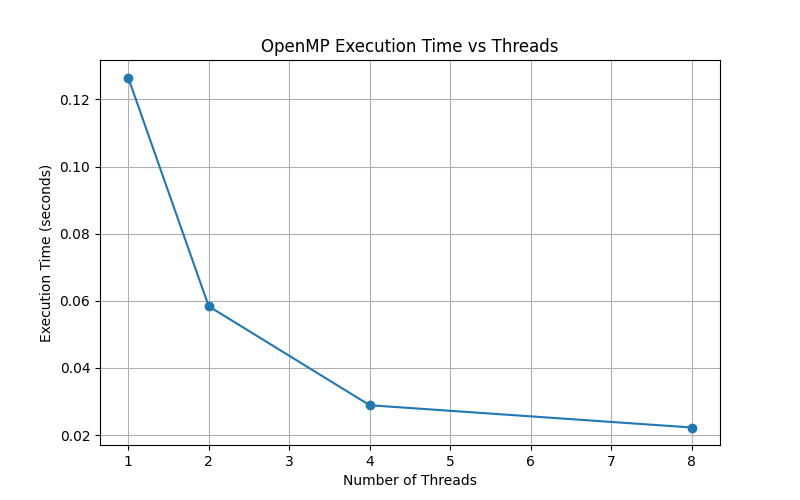
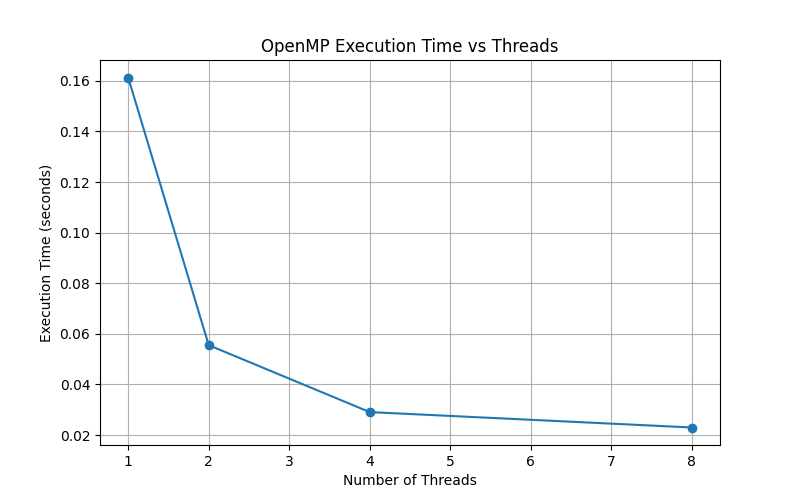
chore: added the new folder structure to save pgms and pngs

diff --git a/scripts/preprocessing/input_image_processing.py b/scripts/preprocessing/input_image_processing.py
@@ -1,4 +1,4 @@
-# Run: python3 input_image_processing.py
+# Run: python3 scripts/preprocessing/input_image_processing.py
 
 import numpy as np
 import cv2
@@ -8,7 +8,17 @@ from pathlib import Path
 script_dir = Path(__file__).resolve().parent
 project_root = script_dir.parent.parent
 input_img = project_root / "data" / "input_image.png"
-output_img = project_root / "output" / "input.pgm"
+
+pgm_dir = project_root / "results" / "pgm"
+png_dir = project_root / "results" / "png"
+
+# Create both folders before writing anything
+pgm_dir.mkdir(parents=True, exist_ok=True)
+png_dir.mkdir(parents=True, exist_ok=True)
+
+output_pgm = pgm_dir / "input.pgm"
+png_original = png_dir / "00_original_input.png"
+png_preprocessed = png_dir / "01_preprocessed_input.png"
 
 # read input image as grayscale
 img = cv2.imread(str(input_img), cv2.IMREAD_GRAYSCALE)
@@ -19,10 +29,20 @@ if img is None:
 resized = cv2.resize(img, (8192, 8192), interpolation=cv2.INTER_LINEAR)
 
 # save as PGM
-ok = cv2.imwrite(str(output_img), resized)
-if not ok:
-    raise RuntimeError(f"Failed to write: {output_img}")
+if not cv2.imwrite(str(output_pgm), resized):
+    raise RuntimeError(f"Failed to write: {output_pgm}")
+
+# Also save as PNG for visualization
+if not cv2.imwrite(str(png_original), img):
+    raise RuntimeError(f"Failed to write: {png_original}")
+
+if not cv2.imwrite(str(png_preprocessed), resized):
+    raise RuntimeError(f"Failed to write: {png_preprocessed}")
 
 print("Read:", input_img)
-print("Saved:", output_img)
+print("Saved PGM:", output_pgm)
+print("Saved PNG (original):", png_original)
+print("Saved PNG (preprocessed):", png_preprocessed)
 print("Output size:", resized.shape)
+print("PGM dir:", pgm_dir)
+print("PNG dir:", png_dir)

diff --git a/src/serial/hist_eq_serial.c b/src/serial/hist_eq_serial.c
@@ -1,11 +1,14 @@
 /*
   Serial Histogram Equalization (Grayscale, 8-bit) for PGM (P5) images.
 
+  If no build folder; create it using : 
+    mkdir -p build
+    
   Build (Linux/macOS):
     gcc -O2 -std=c11 src/serial/hist_eq_serial.c -o build/hist_eq_serial
 
-  Run:
-    ./build/hist_eq_serial output/input.pgm output/output_serial.pgm
+  Run (from project root):
+    ./build/hist_eq_serial results/pgm/input.pgm results/pgm/output_serial.pgm
 */
 #include <stdio.h>
 #include <stdlib.h>
@@ -175,7 +178,7 @@ static void hist_equalize_u8(uint8_t *img, int w, int h) {
 
 int main(int argc, char **argv) {
     if (argc != 3) {
-        fprintf(stderr, "Usage: %s output/input.pgm output/output_serial.pgm\n", argv[0]);
+        fprintf(stderr, "Usage: %s results/pgm/input.pgm results/pgm/output_serial.pgm\n", argv[0]);
         return 1;
     }
 
@@ -192,16 +195,16 @@ int main(int argc, char **argv) {
     hist_equalize_u8(img, w, h);
 
     clock_t end = clock();
-    // -------- End Timing --------
-
     double time_spent = (double)(end - start) / CLOCKS_PER_SEC;
-
     printf("Serial Execution Time: %f seconds\n", time_spent);
 
     if (!write_pgm_p5(out_path, img, w, h)) {
-        free(img);
-        return 1;
-    }
+    free(img);
+    return 1;
+   }
+
+// convert to PNG automatically
+system("convert results/pgm/output_serial.pgm results/png/02_output_serial.png");
 
     free(img);
     return 0;

diff --git a/src/openmp/hist_eq_openmp.c b/src/openmp/hist_eq_openmp.c
@@ -6,7 +6,7 @@
    gcc -O2 -fopenmp -std=c11 src/openmp/hist_eq_openmp.c -o build/hist_eq_openmp
 
  Run:
-   ./build/hist_eq_openmp output/input.pgm output/output_openmp.pgm
+   ./build/hist_eq_openmp results/pgm/input.pgm results/pgm/output_openmp.pgm
 */
 
 #include <stdio.h>
@@ -188,7 +188,7 @@ static void hist_equalize_openmp(uint8_t *img,int w,int h){
 int main(int argc,char **argv){
 
     if(argc!=3){
-        printf("Usage: %s output/input.pgm output/output_openmp.pgm\n", argv[0]);
+        printf("Usage: %s results/pgm/input.pgm results/pgm/output_openmp.pgm\n", argv[0]);
         return 1;
     }
 
@@ -224,6 +224,9 @@ int main(int argc,char **argv){
         fprintf(fp,"%d %f\n",threads,time);
 
         write_pgm_p5(argv[2],img,w,h);
+
+        // convert to PNG automatically
+        system("convert results/pgm/output_openmp.pgm results/png/03_output_openmp.png");
 
         free(img);
     }

diff --git a/src/mpi/hist_eq_mpi.c b/src/mpi/hist_eq_mpi.c
@@ -1,11 +1,12 @@
 /*
-  MPI Parallel Histogram Equalization (Fixed)
-  
-  Compile:
+  MPI Parallel Histogram Equalization
+
+  Compile (from project root):
     mpicc -O2 -std=c11 src/mpi/hist_eq_mpi.c -o build/hist_eq_mpi
 
-  Run:
-    mpirun -np 1 ./build/hist_eq_mpi output/input.pgm output/output_mpi.pgm
+  Run (from project root):
+    mpirun -np 1 ./build/hist_eq_mpi results/pgm/input.pgm results/pgm/output_mpi.pgm
+
 */
 
 #include <stdio.h>
@@ -176,6 +177,10 @@ int main(int argc, char **argv) {
         }
         
         write_pgm_p5(argv[2], full_image, w, h);
+
+            // convert to PNG automatically
+system("convert results/pgm/output_mpi.pgm results/png/04_output_mpi.png");
+
         free(full_image);
     }       
 
